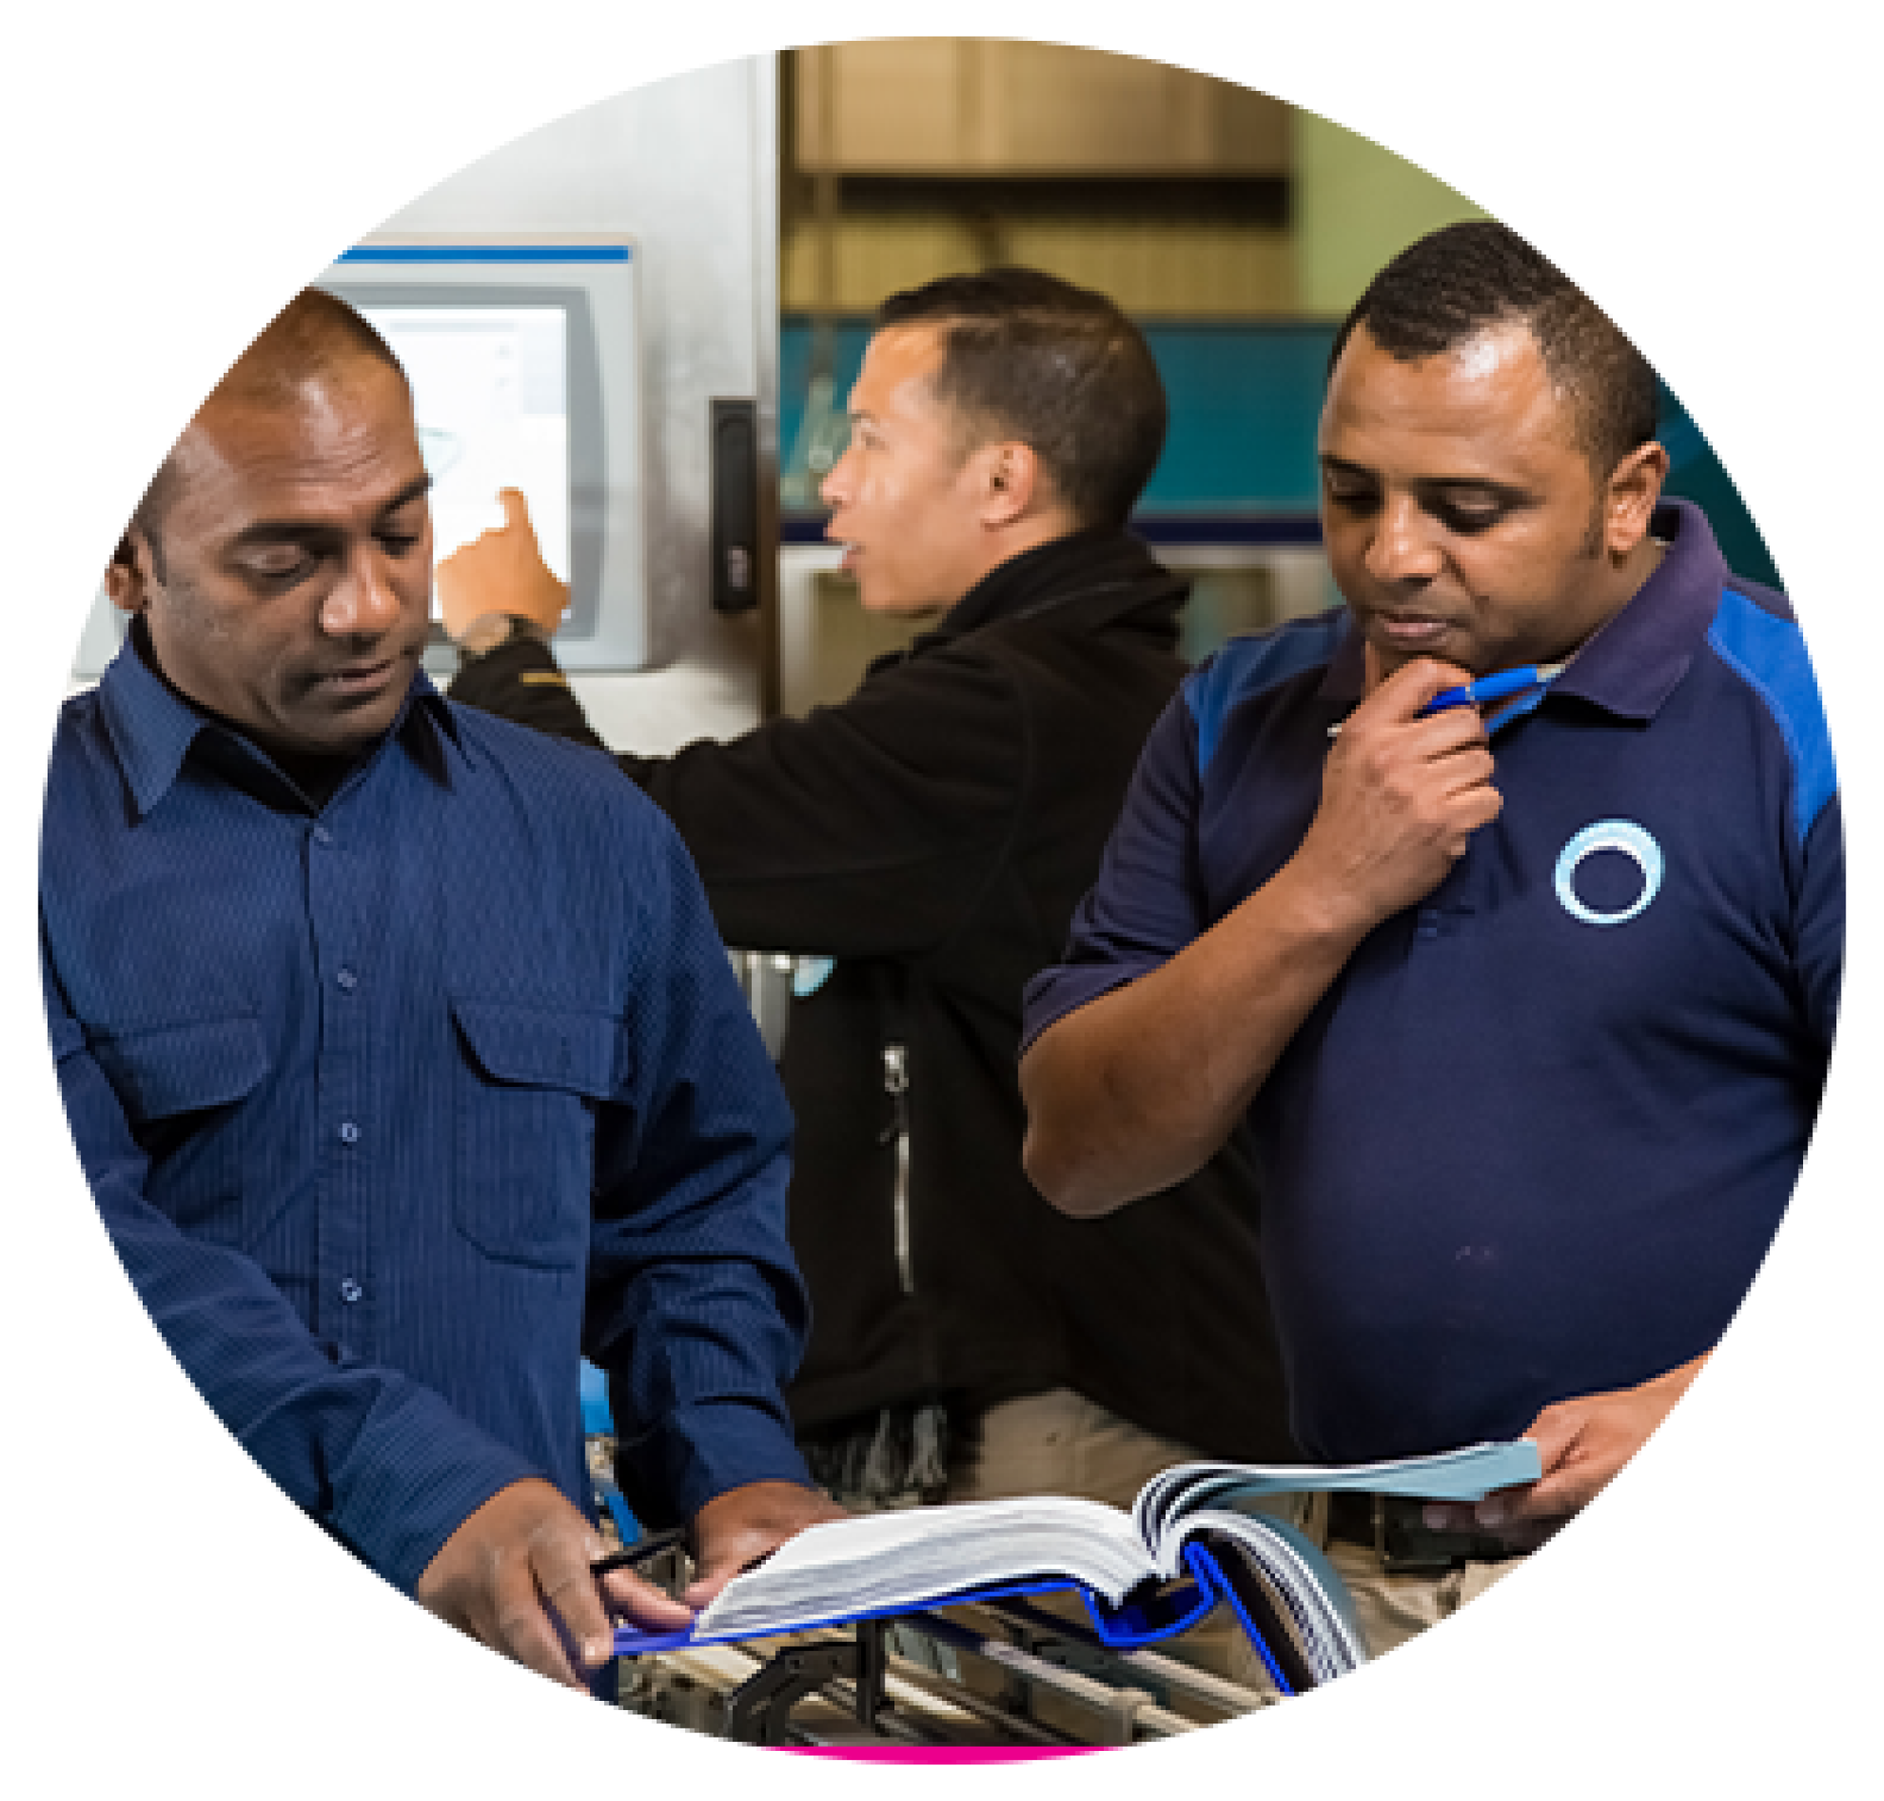
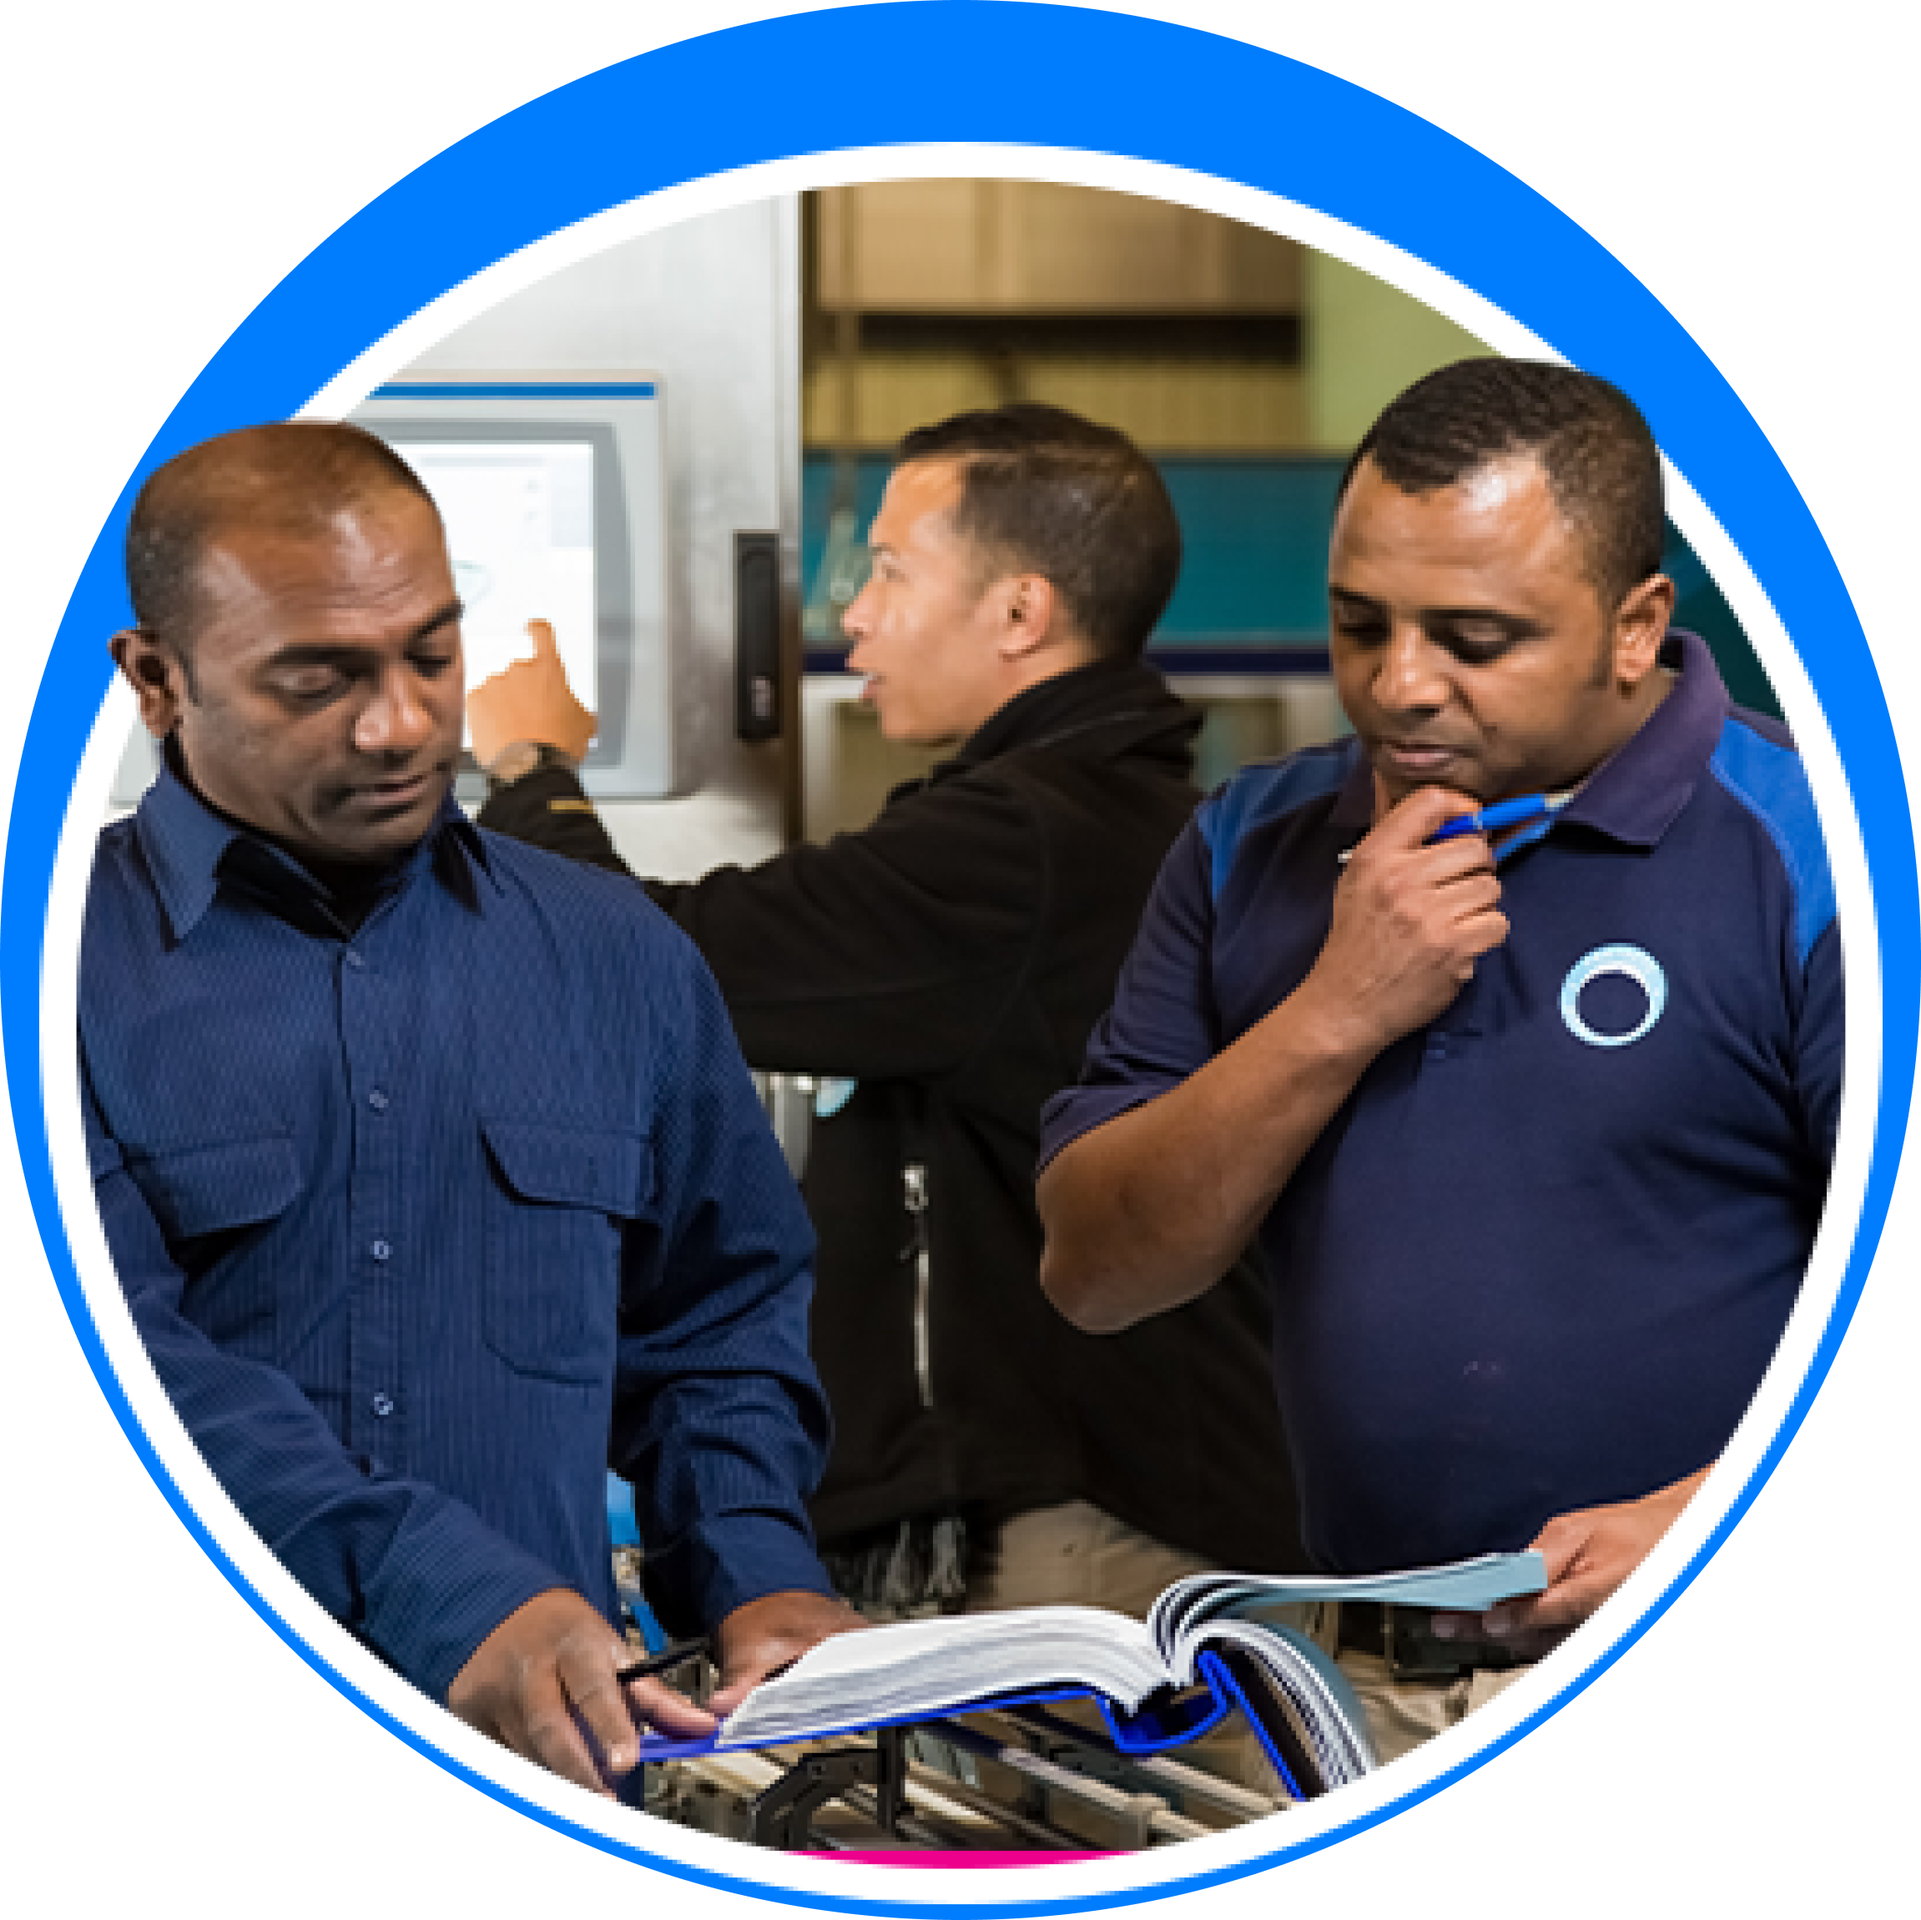
done why sec

diff --git a/index.html b/index.html
@@ -12,6 +12,7 @@
     <link rel="stylesheet" href="./style.css">
     <link rel="stylesheet" href="./style2.css">
     <link rel="stylesheet" href="./hero-style.css">
+    <link rel="stylesheet" href="./why-style.css">
 </head>
 <body>
     <section class="contact">
@@ -75,13 +76,55 @@
         </div>
     </section>
     <section class="why">
-        <div class="why-text">
-            <h1 class="bold">WHY CHOOSE US?</h1>
-            <p class="bold">We are the leading supplier of heavy equipment spare parts in the region. We have been in the business for over 20 years and have a wide range of products to choose from. We are committed to providing the best quality products at the best prices. We have a team of experts who are always ready to help you with your needs. We are dedicated to providing the best customer service and are always ready to go the extra mile to make sure that you are satisfied with our products and services.</p>
+      <div class="why-cards ">
+        <div class="card rounded-0 shadow p-3 mb-5 bg-body rounded " style="width: 18rem;">
+          <div class="card-head">
+            <div class="width20 center mt-2">
+              <img src="./res/high-speed (1).png" class="card-img-top image" alt="...">
+            </div>
+            <div class="card-head-txt center bold">
+              <h5 class="card-title bold">Fast <br/> Response</h5>
+            </div>
+          </div>
+          <div class="card-body">
+            <p class="card-text ">Some quick example text to build on the card title and make up the bulk of the card's content.</p>
+          </div>
         </div>
-        <div class="why-img">
-            <img src="./res/why-img-min.png" alt="why-img">
+        <div class="card rounded-0 shadow p-3 mb-5 bg-body rounded" style="width: 18rem;">
+          <div class="card-head">
+            <div class="width20 center mt-2">
+              <img src="./res/available (1).png" class="card-img-top image" alt="...">
+            </div>
+            <div class="card-head-txt center ">
+              <h5 class="card-title bold">Large <br/> Availability</h5>
+            </div>
+          </div>
+          <div class="card-body">
+            <p class="card-text">Some quick example text to build on the card title and make up the bulk of the card's content.</p>
+          </div>
         </div>
+        <div class="card rounded-0 shadow p-3 mb-5 bg-body rounded " style="width: 18rem;">
+          <div class="card-head">
+            <div class="width20 center mt-2">
+              <img src="./res/worldwide (1).png" class="card-img-top image" alt="...">
+            </div>
+            <div class="card-head-txt center ">
+              <h5 class="card-title bold">Worldwide <br/> Shipping</h5>
+            </div>
+          </div>
+          <div class="card-body">
+            <p class="card-text">Some quick example text to build on the card title and make up the bulk of the card's content.</p>
+          </div>
+        </div>
+
+      </div>
+      <div class="why-des">
+        <div class="why-des-img"><img src="./res/shutterstock_1713654229-min.png" alt=""></div>
+        <div class="why-des-txt">
+          <h3 class="bold color-blue2"><span class="color-yellow blue-ul">WHY</span> ANNCAR</h3>
+          <p>Lorem ipsum dolor sit amet consectetur adipisicing elit. Architecto repellendus id totam, a quis illum culpa accusamus soluta labore magnam eaque temporibus rerum commodi hic harum aut non necessitatibus inventore. Lorem ipsum, dolor sit amet consectetur adipisicing elit. Sit nobis consectetur architecto quisquam saepe  fugit numquam nemo!</p>
+        </div>
+      </div>
     </section>
       
         

diff --git a/why-style.css b/why-style.css
@@ -1,0 +1,77 @@
+.why-des-img img {
+    width: 100%;
+    height: 100%;
+    object-fit: cover;
+}
+
+.why-des-img {
+    display: none;
+    width: 20%;
+}
+
+.why-des {
+    display: flex;
+    justify-content: space-between;
+    align-items: center;
+    padding: 0 1rem;
+    margin: 2rem 0;
+}
+
+.why-cards {
+    display: flex;
+    flex-direction: column;
+    justify-content: center;
+    align-items: center;
+    /* gap: 1rem; */
+    padding: 0 1rem;
+    margin: 2rem 0;
+}
+
+.card-head-txt br {
+    display: none;
+}
+
+/* -------------------------------------------------------------- */
+/* -------------------------------------------------------------- */
+/* Screen 1280px */
+/* -------------------------------------------------------------- */
+/* -------------------------------------------------------------- */
+
+@media (min-width: 1280px) {
+    .why-des {
+        padding: 0 4rem;
+        display: flex;
+        justify-content: center;
+        align-items: center;
+        margin: 2rem auto;
+        gap: 5rem;
+
+    }
+
+    .why-des-img {
+        display: block;
+        width: 30%;
+    }
+
+    .why-des-txt {
+        width: 40%;
+    }
+
+    .why-cards {
+        flex-direction: row;
+        gap: 0rem;
+    }
+
+    .card-head {
+        display: flex;
+        justify-content: center;
+        align-items: center;
+    }
+    .card-head-txt h5 {
+        margin:  0 0 0 -5rem !important;
+        
+    }
+    .card-head-txt br {
+        display: block;
+    }
+}

diff --git a/style2.css b/style2.css
@@ -9,11 +9,37 @@
 }
 
 .color-yellow {
-    color: #FDBE00;
+    color: #FDBE00 !important;
 }
 
 .color-blue {
-    color: #0272E8;
+    color: #0476f1 !important;
+}
+.color-blue2 {
+    color: #023a75 !important;
+}
+
+.blue-ul {
+    
+    border-bottom: #023a75 2px solid !important;
+
+}
+
+.image {
+    width: 100%;
+    height: 100%;
+    object-fit: cover;
+}
+
+.width20 {
+    width: 20%;
+}
+
+.center {
+    display: flex;
+    justify-content: center;
+    align-items: center;
+    margin: 0 auto ;
 }
 
 /* -------------------------------------------------------------- */
